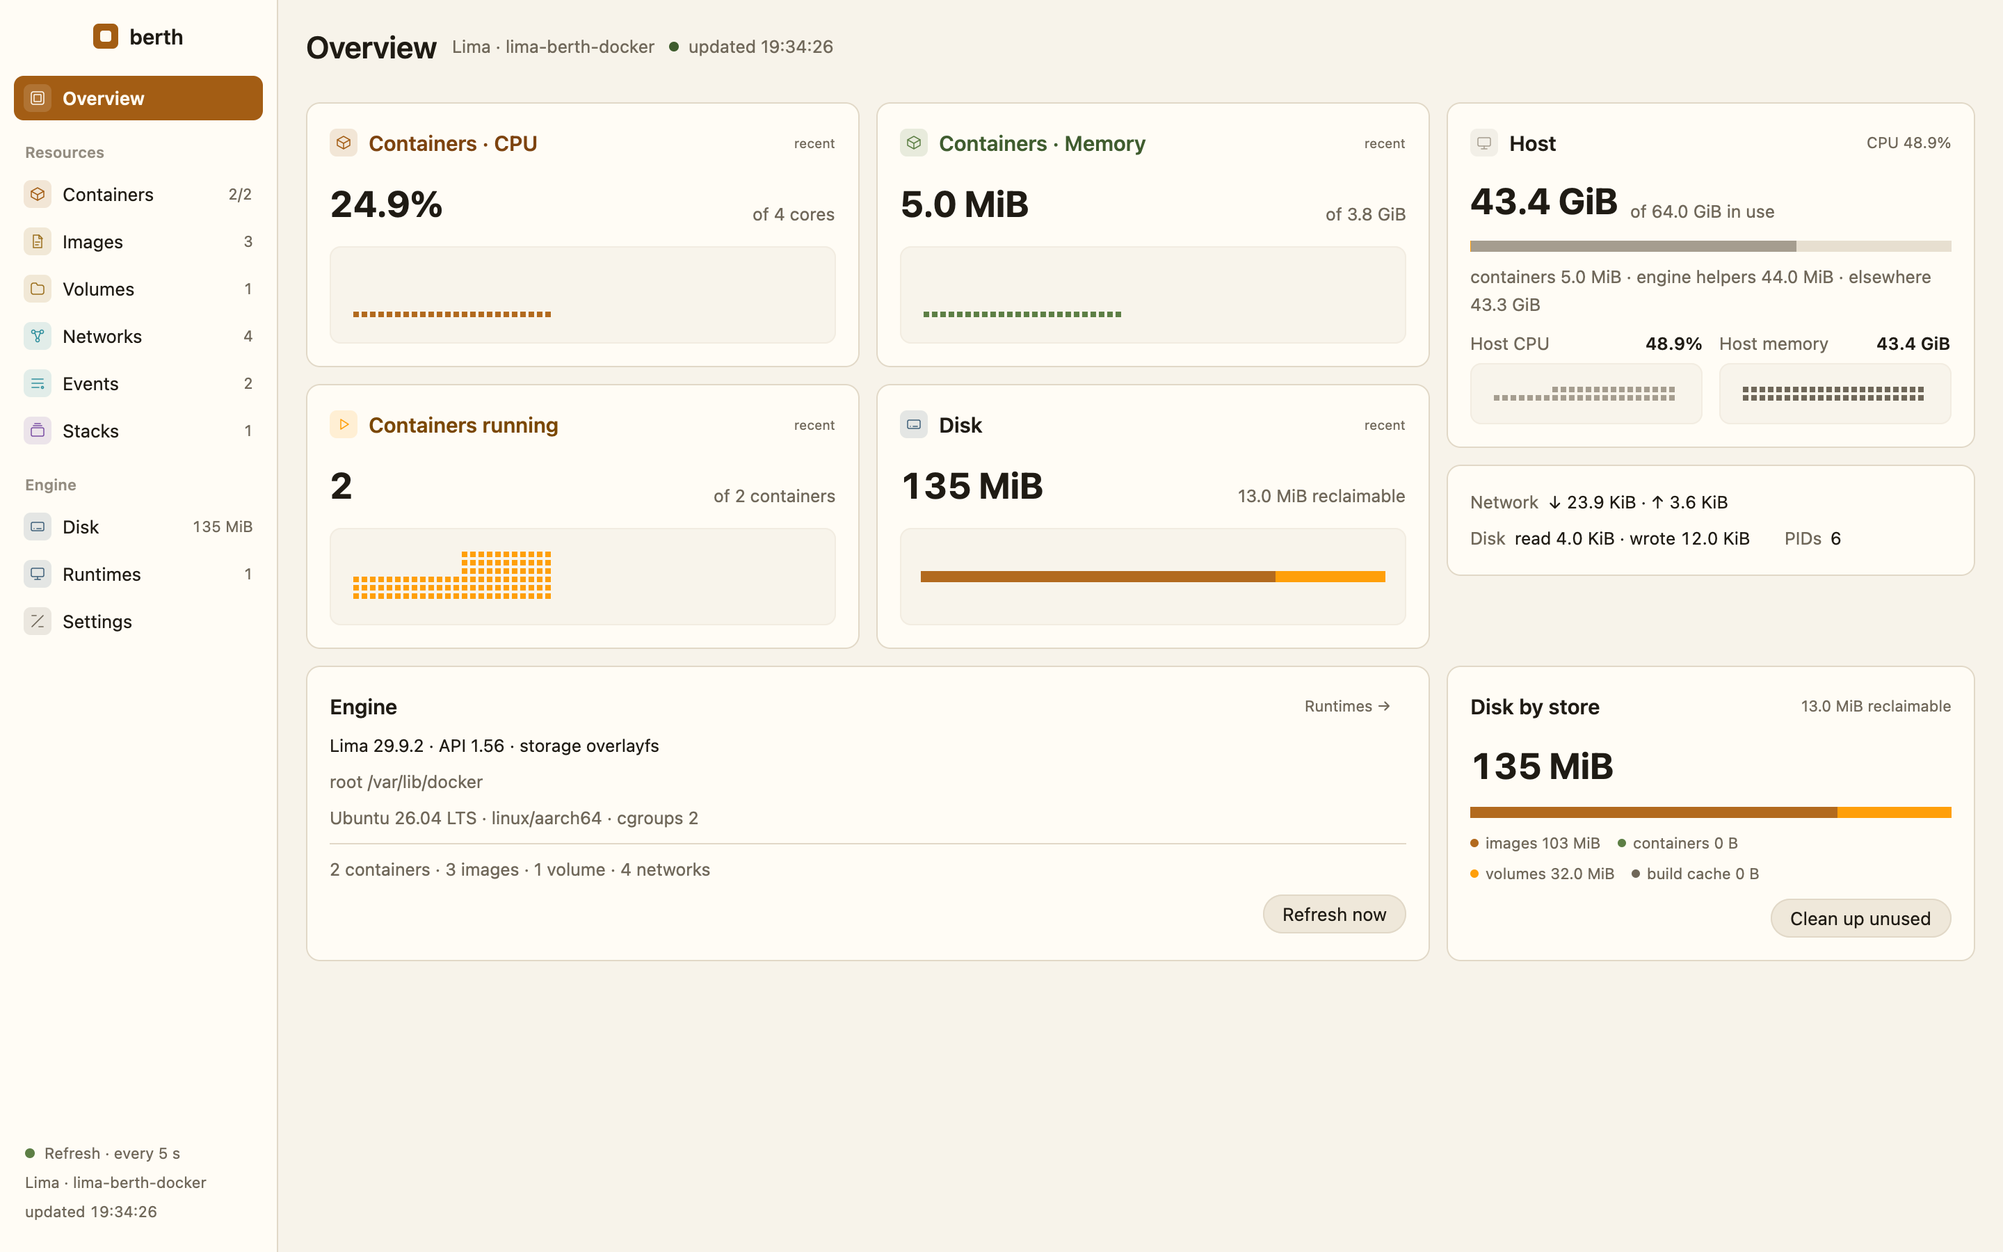
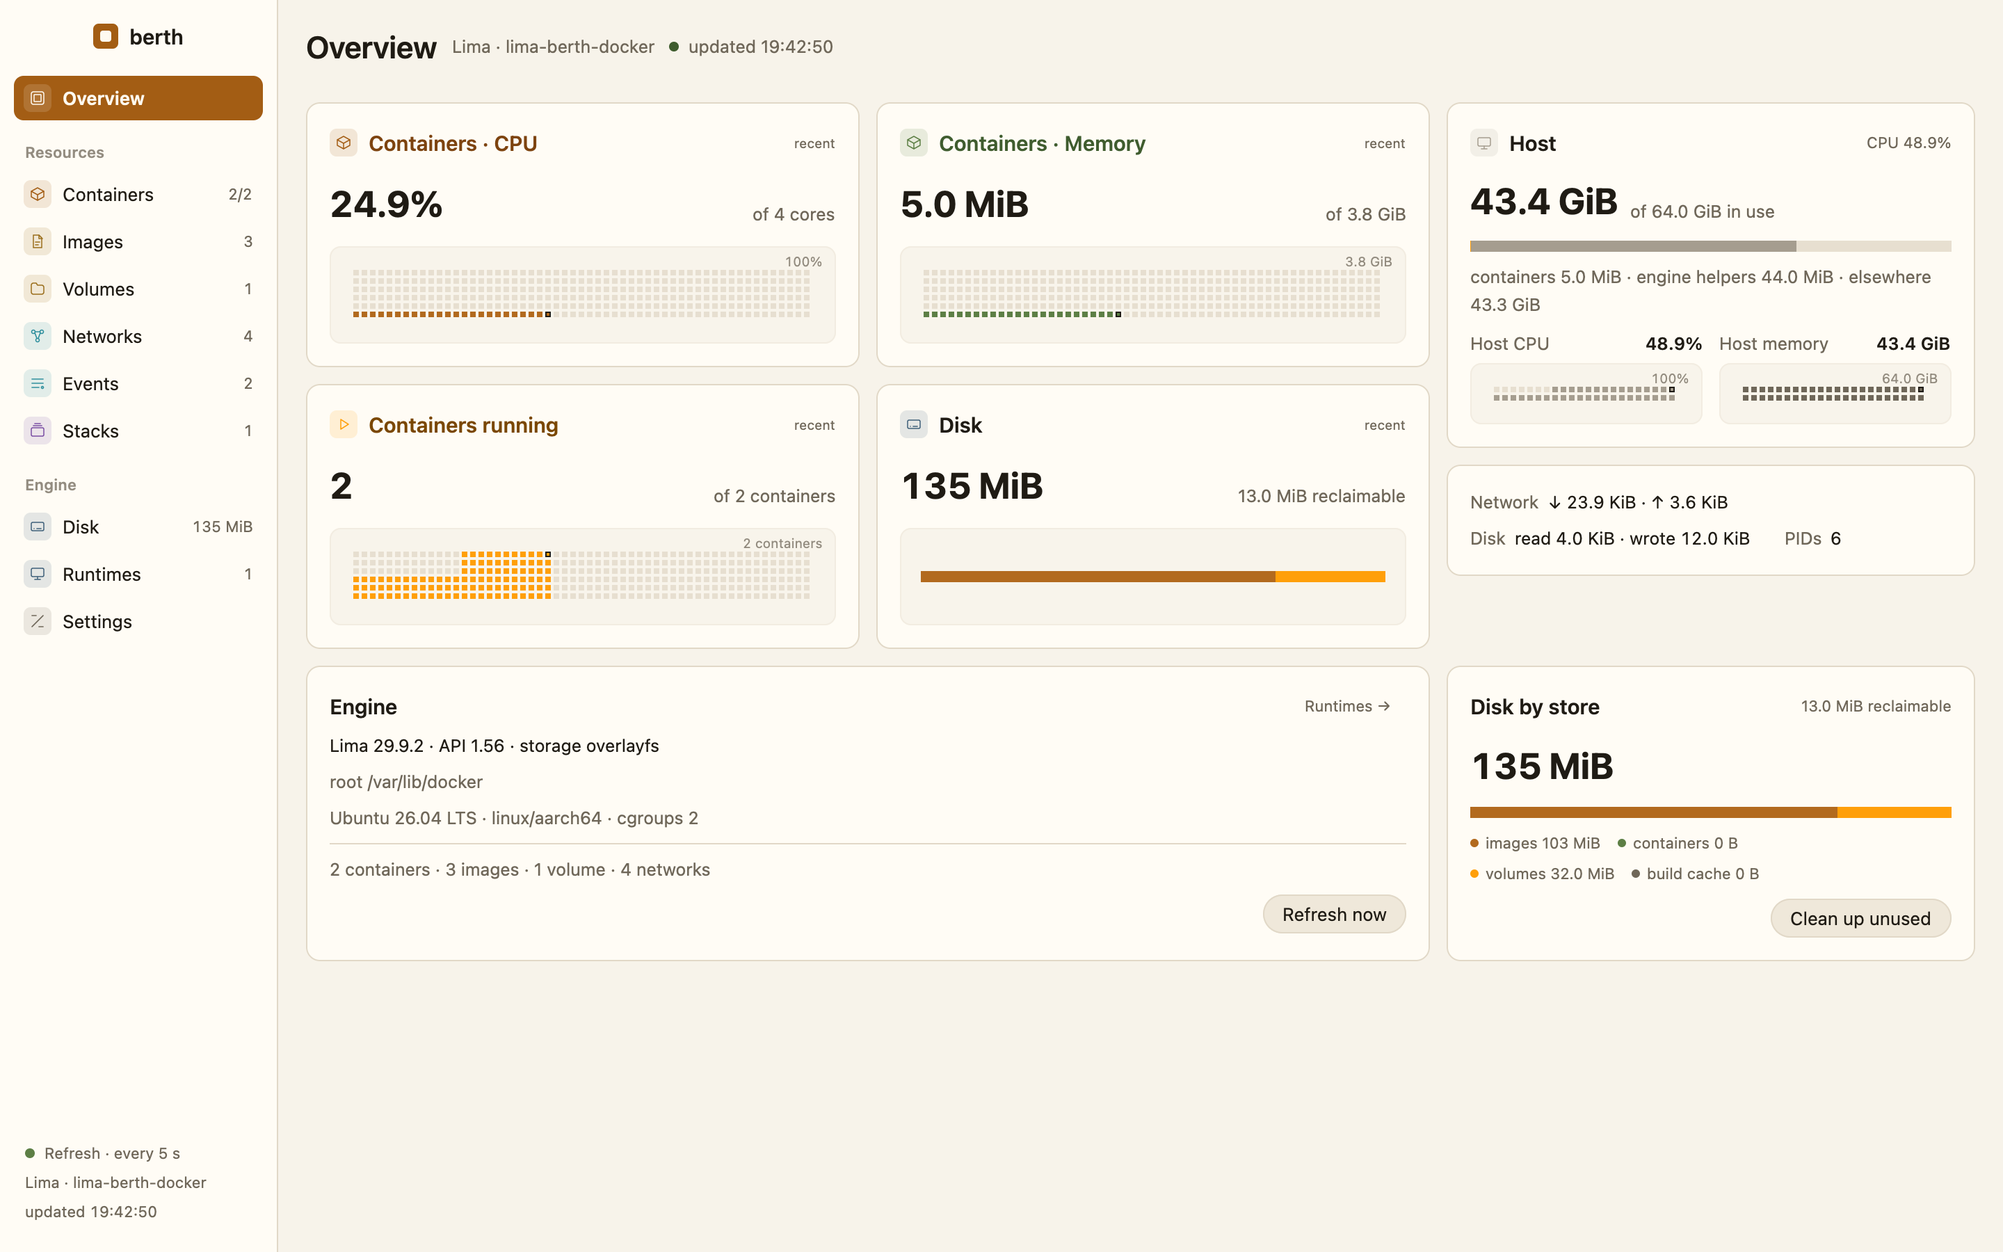
feat: draw the graph lattice, name the ceiling, mark the peak
U13. A well draws its lattice first, a dot at every place one could be, in
the bar track's colour, so that a series stands against the full height it
could have had: 5 MiB on a 3.8 GiB ceiling is a line at the floor of a full
lattice, and not an empty well.

The ceiling is named on the top edge of the well, each series in its own
unit, and the highest column carries a ring. The ceiling stays fixed. An
unknown ceiling still draws nothing: a lattice would pretend to a scale
nobody gave.

diff --git a/crates/berth-app/src/ui/graph.rs b/crates/berth-app/src/ui/graph.rs
@@ -3,8 +3,9 @@
 //! do not become a few hundred scene nodes.
 
 use berth_ui::theme::Tokens;
+use berth_ui::typography as type_scale;
 use gpui::prelude::*;
-use gpui::{Bounds, Hsla, IntoElement, Point, canvas, div, fill, px, size};
+use gpui::{BorderStyle, Bounds, Hsla, IntoElement, Point, canvas, div, fill, outline, px, size};
 
 const DOT: f32 = 4.0;
 const PITCH: f32 = 6.0;
@@ -12,19 +13,24 @@ const INSET: f32 = 8.0;
 
 /// A graph well: surface, hairline, fixed height, dots newest on the right.
 ///
-/// `ceiling` is the value the top of the well stands for. It is fixed, never
-/// fitted to the data, so a flat series stays at one height while its oldest
-/// samples leave the ring. `None` means the ceiling isn't known, and nothing
-/// is drawn: a graph against an unknown ceiling would lie.
+/// The lattice is drawn first, a dot at every place one could be, so that a
+/// low reading reads as low and not as absent. `ceiling` is the value the top
+/// of the well stands for, `label` what it is called ("100%", "3.8 GiB").
+/// The ceiling is fixed, never fitted to the data, so a flat series stays at
+/// one height while its oldest samples leave the ring. `None` means the
+/// ceiling isn't known, and nothing is drawn: a graph against an unknown
+/// ceiling would lie, and a lattice would pretend to a scale. The highest
+/// column is marked with a ring.
 pub fn cell_graph(
     values: Vec<f32>,
     color: Hsla,
     tokens: Tokens,
     ceiling: Option<f32>,
     height: f32,
+    label: Option<String>,
 ) -> impl IntoElement {
     let span = value_span(ceiling);
-    div()
+    let mut well = div()
         .w_full()
         .h(px(height))
         .rounded(px(8.0))
@@ -33,41 +39,92 @@ pub fn cell_graph(
         .border_color(tokens.well_border())
         .p(px(INSET))
         .overflow_hidden()
-        .child(
-            canvas(
-                |_, _, _| (),
-                move |bounds, _, window, _| {
-                    let inner_w = f32::from(bounds.size.width) - 2.0 * INSET;
-                    let inner_h = f32::from(bounds.size.height) - 2.0 * INSET;
-                    if inner_w <= 0.0 || inner_h <= 0.0 {
-                        return;
-                    }
-                    let cols = (((inner_w + PITCH - DOT) / PITCH).floor() as usize).max(1);
-                    let rows = (((inner_h + PITCH - DOT) / PITCH).floor() as usize).max(1);
-                    // An unknown ceiling: the well stays empty.
-                    let Some(value_span) = span else {
-                        return;
-                    };
+        .relative();
+    if let (Some(label), Some(_)) = (label, span) {
+        well = well.child(
+            // On the well's own colour, so that it sits over the lattice and
+            // not in it.
+            div()
+                .absolute()
+                .top(px(2.0))
+                .right(px(5.0))
+                .px(px(3.0))
+                .rounded(px(2.0))
+                .bg(tokens.well())
+                .text_size(px(type_scale::META))
+                .font_features(crate::ui::tabular())
+                .text_color(tokens.faint())
+                .child(label),
+        );
+    }
+    well.child(
+        canvas(
+            |_, _, _| (),
+            move |bounds, _, window, _| {
+                let inner_w = f32::from(bounds.size.width) - 2.0 * INSET;
+                let inner_h = f32::from(bounds.size.height) - 2.0 * INSET;
+                if inner_w <= 0.0 || inner_h <= 0.0 {
+                    return;
+                }
+                let cols = (((inner_w + PITCH - DOT) / PITCH).floor() as usize).max(1);
+                let rows = (((inner_h + PITCH - DOT) / PITCH).floor() as usize).max(1);
+                let dot = |col: usize, step: usize| {
+                    let x = f32::from(bounds.left()) + INSET + col as f32 * PITCH;
+                    let y = f32::from(bounds.top()) + INSET + (rows - 1 - step) as f32 * PITCH;
+                    Bounds::new(Point::new(px(x), px(y)), size(px(DOT), px(DOT)))
+                };
+                // An unknown ceiling: the well stays empty.
+                let Some(value_span) = span else {
+                    return;
+                };
 
-                    let start = values.len().saturating_sub(cols);
-                    for (offset, value) in values[start..].iter().enumerate() {
-                        // Anything above zero shows at least one step.
-                        let height =
-                            ((*value / value_span).clamp(0.0, 1.0) * rows as f32).ceil() as usize;
-                        for step in 0..height.min(rows) {
-                            let x = f32::from(bounds.left()) + INSET + offset as f32 * PITCH;
-                            let y =
-                                f32::from(bounds.top()) + INSET + (rows - 1 - step) as f32 * PITCH;
-                            window.paint_quad(fill(
-                                Bounds::new(Point::new(px(x), px(y)), size(px(DOT), px(DOT))),
-                                color,
-                            ));
-                        }
+                for col in 0..cols {
+                    for step in 0..rows {
+                        window.paint_quad(fill(dot(col, step), tokens.track));
                     }
-                },
-            )
-            .size_full(),
+                }
+
+                let start = values.len().saturating_sub(cols);
+                let filled: Vec<usize> = values[start..]
+                    .iter()
+                    .map(|value| steps(*value, value_span, rows))
+                    .collect();
+                for (col, &height) in filled.iter().enumerate() {
+                    for step in 0..height.min(rows) {
+                        window.paint_quad(fill(dot(col, step), color));
+                    }
+                }
+                // The highest column, and the newest where several are as
+                // high: the one to read the peak off.
+                if let Some(col) = peak(&filled)
+                    && filled[col] > 0
+                {
+                    let bounds = dot(col, filled[col] - 1);
+                    window.paint_quad(fill(bounds, color));
+                    window.paint_quad(outline(bounds, tokens.text, BorderStyle::Solid));
+                }
+            },
         )
+        .size_full(),
+    )
+}
+
+/// How many steps of the lattice a value fills. Anything above zero shows at
+/// least one step, so that a small reading is low and not missing.
+fn steps(value: f32, span: f32, rows: usize) -> usize {
+    if !value.is_finite() || value <= 0.0 {
+        return 0;
+    }
+    ((value / span).clamp(0.0, 1.0) * rows as f32).ceil() as usize
+}
+
+/// The column holding the peak: the newest of the highest.
+fn peak(filled: &[usize]) -> Option<usize> {
+    filled
+        .iter()
+        .enumerate()
+        .max_by_key(|&(col, &height)| (height, col))
+        .map(|(col, _)| col)
 }
 
 /// The span a ceiling gives a graph. Only a positive, finite ceiling is one.
@@ -100,6 +157,29 @@ pub fn stacked_bar(segments: Vec<(f32, Hsla)>, track: Hsla) -> impl IntoElement 
 #[cfg(test)]
 mod tests {
     use super::*;
+
+    #[test]
+    fn a_small_reading_is_low_and_not_missing() {
+        // 5 MiB on a 3.8 GiB ceiling, in a well of nine rows.
+        let span = 3.8 * 1024.0 * 1024.0 * 1024.0;
+        assert_eq!(steps(5.0 * 1024.0 * 1024.0, span, 9), 1);
+        assert_eq!(steps(span, span, 9), 9);
+        assert_eq!(steps(span / 2.0, span, 9), 5);
+        // Nothing, or less than nothing, or a value nobody measured: no dot.
+        assert_eq!(steps(0.0, span, 9), 0);
+        assert_eq!(steps(-1.0, span, 9), 0);
+        assert_eq!(steps(f32::NAN, span, 9), 0);
+    }
+
+    #[test]
+    fn the_peak_is_the_newest_of_the_highest_columns() {
+        assert_eq!(peak(&[1, 3, 2, 3]), Some(3));
+        assert_eq!(peak(&[4, 1, 2]), Some(0));
+        // A flat line has its peak at its newest end; an empty one has none.
+        assert_eq!(peak(&[2, 2, 2]), Some(2));
+        assert_eq!(peak(&[0, 0]), Some(1));
+        assert_eq!(peak(&[]), None);
+    }
 
     #[test]
     fn only_a_real_ceiling_gives_a_span() {

diff --git a/crates/berth-app/src/ui/views/overview_cards.rs b/crates/berth-app/src/ui/views/overview_cards.rs
@@ -32,6 +32,27 @@ pub(crate) struct Series {
     tint: Hsla,
     ink: Hsla,
     line: Hsla,
+    /// What its ceiling is counted in, so that the well can name it.
+    unit: Unit,
+}
+
+/// What a series is measured in.
+#[derive(Clone, Copy)]
+pub(crate) enum Unit {
+    Percent,
+    Bytes,
+    Count,
+}
+
+impl Unit {
+    /// The ceiling's name, on the top edge of the well.
+    fn ceiling(self, ceiling: Option<f32>) -> Option<String> {
+        ceiling.map(|ceiling| match self {
+            Unit::Percent => "100%".to_owned(),
+            Unit::Bytes => format::bytes(ceiling as u64),
+            Unit::Count => format::count(ceiling as usize, "container", "containers"),
+        })
+    }
 }
 
 impl Series {
@@ -42,6 +63,7 @@ impl Series {
             tint: tint(tokens, TintKind::Containers),
             ink: tokens.accent_text_pill(),
             line: tokens.accent_fill(),
+            unit: Unit::Percent,
         }
     }
 
@@ -52,6 +74,7 @@ impl Series {
             tint: tokens.success,
             ink: tokens.success_text(),
             line: tokens.success,
+            unit: Unit::Bytes,
         }
     }
 
@@ -62,6 +85,7 @@ impl Series {
             tint: tokens.warning_fill,
             ink: tokens.warning_text(),
             line: tokens.warning_fill,
+            unit: Unit::Count,
         }
     }
 
@@ -72,6 +96,7 @@ impl Series {
             tint: tint(tokens, TintKind::Disk),
             ink: tokens.text,
             line: tokens.muted,
+            unit: Unit::Count,
         }
     }
 
@@ -86,7 +111,14 @@ impl Series {
         width: f32,
         tokens: Tokens,
     ) -> Card {
-        let well = graph::cell_graph(values, self.line, tokens, ceiling, layout::GRAPH_HEIGHT);
+        let well = graph::cell_graph(
+            values,
+            self.line,
+            tokens,
+            ceiling,
+            layout::GRAPH_HEIGHT,
+            self.unit.ceiling(ceiling),
+        );
         self.card_with(reading, well, width, tokens)
     }
 
@@ -105,6 +137,7 @@ impl Series {
             tint,
             ink,
             line: _,
+            unit: _,
         } = self;
         card(tokens)
             .w(px(width))
@@ -243,6 +276,7 @@ pub(crate) fn host_card(app: &BerthApp, tokens: Tokens, containers_mem: Option<u
                 tokens,
                 Some(100.0),
                 44.0,
+                Unit::Percent.ceiling(Some(100.0)),
             ));
     }
     card = card.child(
@@ -315,6 +349,7 @@ pub(crate) fn host_card(app: &BerthApp, tokens: Tokens, containers_mem: Option<u
                     history.values(Which::HostCpu).to_vec(),
                     tokens.elsewhere(),
                     Some(100.0),
+                    Unit::Percent,
                     tokens,
                 ))
                 .child(host_spark(
@@ -323,6 +358,7 @@ pub(crate) fn host_card(app: &BerthApp, tokens: Tokens, containers_mem: Option<u
                     history.values(Which::HostMem).to_vec(),
                     tokens.muted,
                     Some(total),
+                    Unit::Bytes,
                     tokens,
                 )),
         )
@@ -335,6 +371,7 @@ fn host_spark(
     values: Vec<f32>,
     color: Hsla,
     ceiling: Option<f32>,
+    unit: Unit,
     tokens: Tokens,
 ) -> Div {
     div()
@@ -361,7 +398,14 @@ fn host_spark(
                         .child(value),
                 ),
         )
-        .child(graph::cell_graph(values, color, tokens, ceiling, 44.0))
+        .child(graph::cell_graph(
+            values,
+            color,
+            tokens,
+            ceiling,
+            44.0,
+            unit.ceiling(ceiling),
+        ))
 }
 
 /// Network, disk and PIDs across the fleet, as totals since each container

diff --git a/docs/FIX-BACKLOG.md b/docs/FIX-BACKLOG.md
@@ -4,7 +4,7 @@
 **Created:** 2026-11-23
 **Baseline:** `ebe5f59`
 **Source:** the code and UX review of 2026-11-23
-**Next:** U13
+**Next:** U14
 **Purpose:** every finding from that review as checkable work, in the order to
 do it. Anyone, or any sub-agent, should be able to take the next unticked row
 and know what "done" means without re-reading the review.
@@ -140,7 +140,7 @@ before the views change.
 - [x] **U10** (S) Write the UI decisions into the spec before building them. `docs/PRODUCT-SPEC.md` §2.1, §2.2, §3.4. Four graph cards (recommended) or the merged card; toasts as a floating stack (recommended) or in the rail; confirmations as modal sheets or as the reference's banner. Done when (M): the spec describes the intended end state, and `docs/PARITY-CHECKLIST.md` stops claiming Overview parity early. Feeds U11, U24, D1. *(decided and written into `docs/PRODUCT-SPEC.md`: four graph cards and not one merged card (§2.1, with the host card, the strip and the folded status); toasts as a floating stack at the foot of the main column and never over the inspector (§2.2, which said they were in the rail, and they never were); confirmations as modal sheets and not the reference's banner (§3.4). Also in §3.4, where U11 and U13 will need it: a graph draws the reference lattice and names its ceiling, and a partial sample says how partial. The parity checklist's Overview row now says what is there and names the rows for what is not.)*
 - [x] **U11** (M) Overview: four graph cards and a host sparkline. `ui/views/overview.rs:74–128`, `ui/views/overview_cards.rs:14–119`, `ui/views/overview_disk.rs`. CPU, Memory, Running and Disk cards from the series `History` already records and nothing draws; a Host card with `HostCpu` and `HostMem`; the spec's card anatomy (tinted chip, coloured label, figure, context note, well); network, disk and PIDs as a strip. Done when (H): `overview-light.png` and `overview-dark.png` match `docs/reference-ui/overview.png` in structure. Depends U6. *(four series cards in the reference's anatomy (`Series` in `ui/views/overview_cards.rs`): a tinted chip, a coloured label, the figure with its note beside it, and the well. CPU, Memory and Running are drawn from the history, each against a fixed ceiling: 100%, the engine's own memory total, and how many containers there are. The host card has the three-way split as one bar with a line under it, and the host's own CPU and memory as two small graphs. Network, disk and PIDs are a strip of their own. `overview-light.png` and `overview-dark.png` have the reference's structure: the four, the host, the engine, the disk. Amended: the disk card has no series. No endpoint berth reads says how large the engine's disk is, and a graph against a ceiling fitted to what has been seen is what `cell_graph` exists not to draw. Its well is the split of the stores instead, and the card under the page keeps the legend and the way to clean up, as "Disk by store". Found on the way: `tokens.accent_text` is the text that goes on the accent, near white in the light theme, so a label in it vanishes on a card. The CPU label is `accent_text_pill`.)*
 - [x] **U12** (S) Fold the healthy status band into the header. `ui/views/overview.rs:131–250`. When healthy, a dot and "updated HH:MM:SS" beside the subtitle; the full band only for warning, not answering and reading, with a button ("Open Runtimes", "Retry now"). Done when (H): the Overview fits 760 pt without scrolling. Depends U6. *(with all well the band is gone: the header has a dot and "updated HH:MM:SS" beside the subtitle, through `page_header_with`, which hands any page a place on its title row. A warning, a first read and an engine not answering keep a band, each with the way out of it: Retry now, or Open Runtimes. A reading engine gets no button, there being nothing to ask for again yet. An engine's complaint is wrapped, not cut off. To fit 760 pt the four series sit beside the host and its traffic, not over them. `overview_tests::the_overview_fits_its_window` holds that at 1280×760 the page has nothing to scroll, by `ViewState::page_scroll`, and `only_an_engine_with_something_to_say_gets_a_band` the three states and which outranks which. The four Overview screenshots are regenerated.)*
-- [ ] **U13** (M) Make a low reading look low, not empty. `ui/graph.rs:30–86`. Draw the reference lattice the Zig app had, label the ceiling ("100%", "of 3.8 GiB") and mark the peak; keep the fixed ceiling. Done when (H): a 5 MiB series on a 3.8 GiB ceiling is legible as near the floor.
+- [x] **U13** (M) Make a low reading look low, not empty. `ui/graph.rs:30–86`. Draw the reference lattice the Zig app had, label the ceiling ("100%", "of 3.8 GiB") and mark the peak; keep the fixed ceiling. Done when (H): a 5 MiB series on a 3.8 GiB ceiling is legible as near the floor. *(the well draws its lattice first, a dot at every place one could be, in the bar track's colour, so that a series stands against the full height it could have had. The ceiling is named on the top edge of the well ("100%", "3.8 GiB", "2 containers"), each series saying it in its own unit (`Unit`). The highest column carries a ring, the newest where several tie. The ceiling stays fixed. The Memory card in `overview-light.png` is the case the row names: 5.0 MiB on 3.8 GiB, a line at the floor of a full lattice. The `graph` tests hold that anything above zero is at least one step, that nothing, a negative or an unmeasured value is none, and which column is the peak. An unknown ceiling still draws nothing, lattice included: a lattice would pretend to a scale nobody gave. A first lattice in `faint()` was too heavy to read the series against, and is the track's colour now.)*
 - [ ] **U14** (S) Say how partial a partial sample is. `ui/views/overview.rs:32–57`, `ui/views/overview_cards.rs:74–88`. "partial sample · 49 of 50" in place of a dash beside a label. Done when (H): a partial fixture reads correctly. Depends B15.
 - [ ] **U15** (S) Render unknown engine facts as `—`. `ui/views/overview_cards.rs:380–421`. An empty driver, root, OS or cgroup string is unknown, not blank. Done when (H): a runtime with `info_read = false` shows no half-empty line.
 - [ ] **U16** (M) Show rates on the Overview and label totals in the table. `ui/views/overview_cards.rs:121–158`, `ui/table_cells.rs:125–160`, `berth-core/src/history.rs`. Network and disk as bytes per second from consecutive samples; the table's cumulative columns titled as totals. Done when (U): the rate from two known samples is exact.
